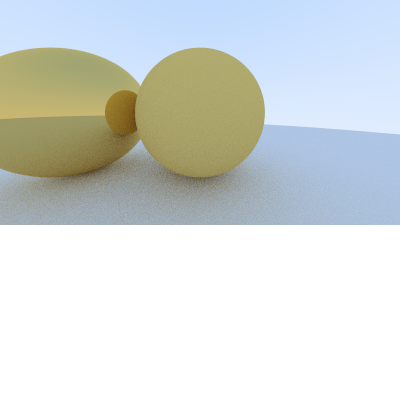
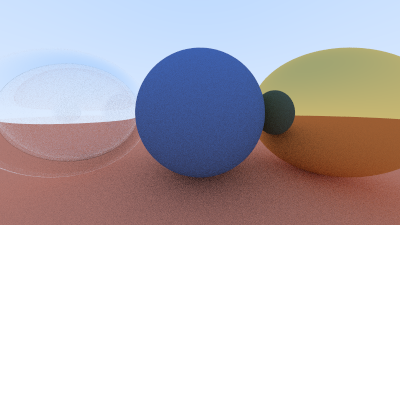
hollow glass sphere

diff --git a/geometry/material.go b/geometry/material.go
@@ -1,5 +1,10 @@
 package geometry
 
+import (
+	"math"
+	"math/rand"
+)
+
 const TOL = 1e-8
 
 
@@ -26,11 +31,44 @@ func (lam *Lambertian) Scatter(ray_in *Ray, record *HitRecord, attenuation *Vec3
 
 type Metal struct {
 	Albedo Vec3
+	Fuzz float64
 }
 
 func (metal *Metal) Scatter(ray_in *Ray, record *HitRecord, attenuation *Vec3, ray_scattered *Ray) bool {
 	reflected_dir := Reflect(ray_in.Dir.Normalize(), record.Normal)
-	*ray_scattered = Ray{record.Point, reflected_dir}
+	*ray_scattered = Ray{record.Point, reflected_dir.Add(RandUnitVec().MulS(metal.Fuzz))}
 	*attenuation = metal.Albedo
+	return true
+}
+
+
+type Dielectric struct {
+	RefractiveIndex float64
+}
+
+func (dielectric *Dielectric) Scatter(ray_in *Ray, record *HitRecord, attenuation *Vec3, ray_scattered *Ray) bool {
+	*attenuation = Vec3{1.0, 1.0, 1.0}
+
+	var refraction_ratio float64
+	if record.FrontFace {
+		refraction_ratio = 1.0 / dielectric.RefractiveIndex
+	} else {
+		refraction_ratio = dielectric.RefractiveIndex
+	}
+
+	unit_dir := ray_in.Dir.Normalize()
+	cos_theta := math.Min(-unit_dir.Dot(record.Normal), 1.0)
+	sin_theta := math.Sqrt(1.0 - cos_theta * cos_theta)
+
+	cannot_refract := refraction_ratio * sin_theta > 1.0
+	var dir Vec3
+
+	if cannot_refract || (Reflectance(cos_theta, refraction_ratio) > rand.Float64()) {
+		dir = Reflect(unit_dir, record.Normal)
+	} else {
+		dir = Refract(unit_dir, record.Normal, refraction_ratio)
+	}
+
+	*ray_scattered = Ray{record.Point, dir}
 	return true
 }

diff --git a/main.go b/main.go
@@ -24,22 +24,39 @@ func main() {
 	cam.Initialize()
 
 	world := geometry.World{}
+
+	// Hollow glass sphere
 	world.Add(geometry.Sphere{
-		Center: geometry.Vec3{0, 0, -1},
-		Radius: 0.5,
-		Material: &geometry.Lambertian { Albedo: geometry.Vec3{0.8, 0.6, 0.2} },
+		Center: geometry.Vec3{-1, 0, -1},
+		Radius: -0.4,
+		Material: &geometry.Dielectric { RefractiveIndex: 1.5 },
 	})
 
 	world.Add(geometry.Sphere{
 		Center: geometry.Vec3{-1, 0, -1},
 		Radius: 0.5,
-		Material: &geometry.Metal { Albedo: geometry.Vec3{0.8, 0.6, 0.2} },
+		Material: &geometry.Dielectric { RefractiveIndex: 1.5 },
 	})
 
+	// Matte
+	world.Add(geometry.Sphere{
+		Center: geometry.Vec3{ 0, 0, -1},
+		Radius: 0.5,
+		Material: &geometry.Lambertian { Albedo: geometry.Vec3{0.1, 0.2, 0.5}},
+	})
+
+	// Metallic
+	world.Add(geometry.Sphere{
+		Center: geometry.Vec3{ 1, 0, -1},
+		Radius: 0.5,
+		Material: &geometry.Metal { Albedo: geometry.Vec3{0.8, 0.6, 0.2}, Fuzz: 0.0},
+	})
+
+	// Matte world
 	world.Add(geometry.Sphere{
 		Center: geometry.Vec3{0, -100.5, -1},
 		Radius: 100,
-		Material: &geometry.Lambertian{ Albedo: geometry.Vec3{ 0.8, 0.8, 0.8} },
+		Material: &geometry.Lambertian{ Albedo: geometry.Vec3{ 0.8, 0.3, 0.2}},
 	})
 
 	img := cam.Render(&world)

diff --git a/geometry/vec3.go b/geometry/vec3.go
@@ -97,6 +97,20 @@ func (u Vec3) NearZero(tol float64) bool {
 	return (math.Abs(u[0]) < tol) && (math.Abs(u[1]) < tol) && (math.Abs(u[2]) < tol)
 }
 
+
+// ray actions
 func Reflect(u Vec3, n Vec3) Vec3 {
 	return u.Sub(n.MulS(2 * n.Dot(u)))
+}
+
+func Refract(u Vec3, n Vec3, refractive_idx float64) Vec3 {
+	cos_theta := math.Min(-u.Dot(n), 1.0)
+	r_perp := (u.Add(n.MulS(cos_theta))).MulS(refractive_idx)
+	r_par := n.MulS(-math.Sqrt(math.Abs(1 - r_perp.Norm() * r_perp.Norm())))
+	return r_perp.Add(r_par)
+}
+
+func Reflectance(cosine float64, reflective_index float64) float64 {
+	r0 := math.Pow((1 - reflective_index) / (1 + reflective_index), 2)
+	return r0 + (1 - r0) * math.Pow(1 - cosine, 5)
 }

diff --git a/README.md b/README.md
@@ -2,4 +2,4 @@
 
 A simple raytracer in Go based on [Ray Tracing in One Weekend](https://raytracing.github.io/books/RayTracingInOneWeekend.html).
 
-![example](examle.png)
+![example](example.png)
